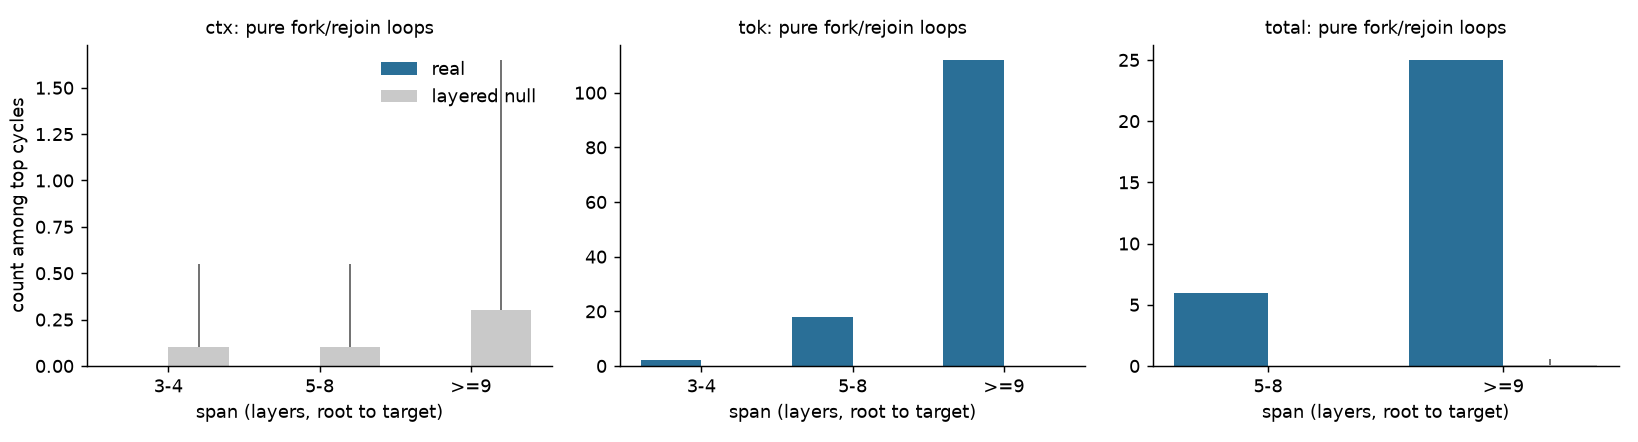
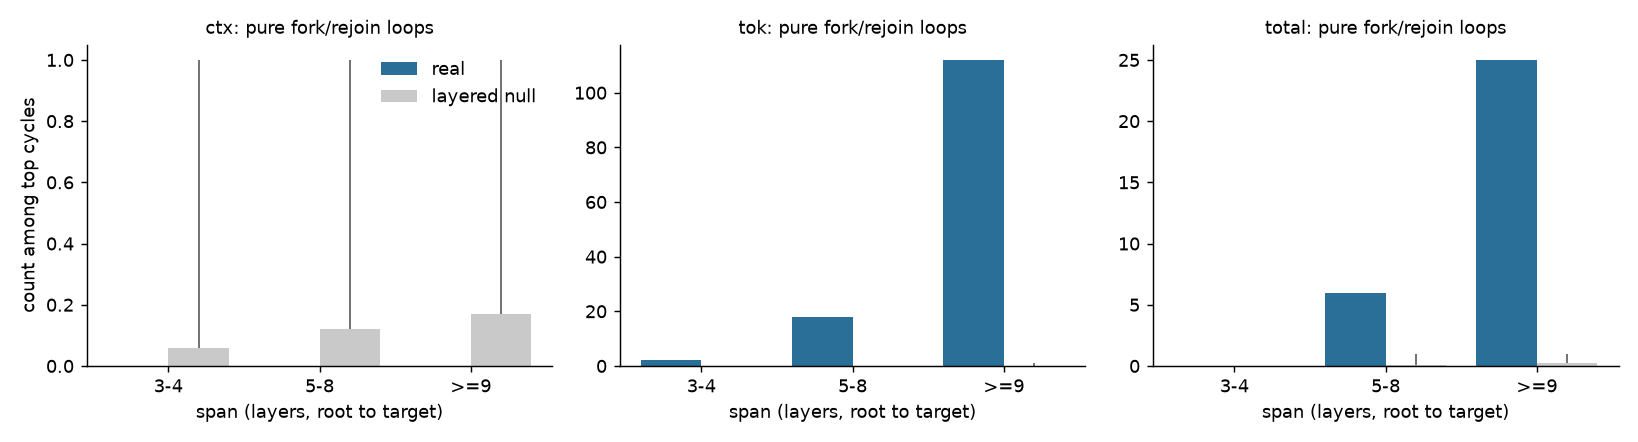
xmine summary: clip error bars when the null 95% is below its mean (crashed xsummary100); report with 100 nulls

diff --git a/scripts/neuron_xmine.py b/scripts/neuron_xmine.py
@@ -368,7 +368,7 @@ def summarize(a) -> int:
         x = np.arange(len(t))
         ax.bar(x - 0.2, t.real, 0.4, color="#2a6f97", label="real")
         ax.bar(x + 0.2, t.null_mean, 0.4, color="#c9c9c9", label="layered null")
-        ax.errorbar(x + 0.2, t.null_mean, yerr=[np.zeros(len(t)), t.null_95 - t.null_mean], fmt="none", ecolor="#666", lw=1)
+        ax.errorbar(x + 0.2, t.null_mean, yerr=[np.zeros(len(t)), np.clip(t.null_95 - t.null_mean, 0, None)], fmt="none", ecolor="#666", lw=1)
         ax.set_xticks(x, [k.replace("pure span ", "") for k in t.type])
         ax.set_xlabel("span (layers, root to target)"); ax.set_title(f"{g}: pure fork/rejoin loops", fontsize=10)
         ax.spines[["top", "right"]].set_visible(False)

diff --git a/reports/neurons/1.4b_s0_step143000/crosslayer.md b/reports/neurons/1.4b_s0_step143000/crosslayer.md
@@ -17,45 +17,46 @@ Pure diamond = fork at one root neuron, two unrelated arms, rejoin at one target
 
 | type | real | null mean | null 95% | p |
 |---|---|---|---|---|
-| diamond span 1 | 0 | 3.1 | 6.5 | 1.000 |
-| diamond span 2 | 0 | 1.1 | 3.0 | 1.000 |
-| diamond span 3-4 | 0 | 0.7 | 2.0 | 1.000 |
-| diamond span 5-8 | 0 | 1.8 | 4.5 | 1.000 |
-| diamond span >=9 | 0 | 12.2 | 15.0 | 1.000 |
-| flat | 988 | 799.2 | 820.8 | 0.091 |
-| pure span 3-4 | 0 | 0.1 | 0.5 | 1.000 |
-| pure span 5-8 | 0 | 0.1 | 0.5 | 1.000 |
-| pure span >=9 | 0 | 0.3 | 1.6 | 1.000 |
-| zigzag | 12 | 181.4 | 197.9 | 1.000 |
+| diamond span 1 | 0 | 2.4 | 5.0 | 1.000 |
+| diamond span 2 | 0 | 0.8 | 3.0 | 1.000 |
+| diamond span 3-4 | 0 | 1.2 | 3.0 | 1.000 |
+| diamond span 5-8 | 0 | 2.2 | 5.0 | 1.000 |
+| diamond span >=9 | 0 | 10.9 | 16.0 | 1.000 |
+| flat | 988 | 795.4 | 813.0 | 0.010 |
+| pure span 3-4 | 0 | 0.1 | 1.0 | 1.000 |
+| pure span 5-8 | 0 | 0.1 | 1.0 | 1.000 |
+| pure span >=9 | 0 | 0.2 | 1.0 | 1.000 |
+| zigzag | 12 | 186.7 | 206.1 | 1.000 |
 
 ### tok
 
 | type | real | null mean | null 95% | p |
 |---|---|---|---|---|
-| diamond span 1 | 10 | 48.1 | 58.6 | 1.000 |
-| diamond span 2 | 9 | 15.2 | 23.1 | 0.909 |
-| diamond span 3-4 | 21 | 19.6 | 27.7 | 0.273 |
-| diamond span 5-8 | 58 | 16.7 | 24.0 | 0.091 |
-| diamond span >=9 | 132 | 40.6 | 49.5 | 0.091 |
-| flat | 0 | 29.4 | 38.0 | 1.000 |
-| pure span 3-4 | 2 | 0.0 | 0.0 | 0.091 |
-| pure span 5-8 | 18 | 0.0 | 0.0 | 0.091 |
-| pure span >=9 | 112 | 0.0 | 0.0 | 0.091 |
-| zigzag | 638 | 830.4 | 846.5 | 1.000 |
+| diamond span 1 | 10 | 50.6 | 60.1 | 1.000 |
+| diamond span 2 | 9 | 16.2 | 22.0 | 0.980 |
+| diamond span 3-4 | 21 | 18.9 | 25.1 | 0.356 |
+| diamond span 5-8 | 58 | 16.9 | 24.0 | 0.010 |
+| diamond span >=9 | 132 | 40.5 | 51.0 | 0.010 |
+| flat | 0 | 29.8 | 38.0 | 1.000 |
+| pure span 3-4 | 2 | 0.0 | 0.0 | 0.010 |
+| pure span 5-8 | 18 | 0.0 | 0.0 | 0.010 |
+| pure span >=9 | 112 | 0.1 | 1.0 | 0.010 |
+| zigzag | 638 | 827.1 | 846.1 | 1.000 |
 
 ### total
 
 | type | real | null mean | null 95% | p |
 |---|---|---|---|---|
-| diamond span 1 | 5 | 33.1 | 37.0 | 1.000 |
-| diamond span 2 | 1 | 8.2 | 11.6 | 1.000 |
-| diamond span 3-4 | 8 | 13.5 | 19.5 | 1.000 |
-| diamond span 5-8 | 14 | 19.7 | 23.5 | 1.000 |
-| diamond span >=9 | 126 | 78.1 | 89.1 | 0.091 |
-| flat | 82 | 25.4 | 40.2 | 0.091 |
-| pure span 5-8 | 6 | 0.0 | 0.0 | 0.091 |
-| pure span >=9 | 25 | 0.1 | 0.5 | 0.091 |
-| zigzag | 733 | 821.9 | 837.5 | 1.000 |
+| diamond span 1 | 5 | 34.2 | 44.0 | 1.000 |
+| diamond span 2 | 1 | 9.1 | 14.0 | 1.000 |
+| diamond span 3-4 | 8 | 14.7 | 24.0 | 0.980 |
+| diamond span 5-8 | 14 | 19.8 | 27.0 | 0.931 |
+| diamond span >=9 | 126 | 72.0 | 86.0 | 0.010 |
+| flat | 82 | 24.3 | 32.0 | 0.010 |
+| pure span 3-4 | 0 | 0.0 | 0.0 | 1.000 |
+| pure span 5-8 | 6 | 0.1 | 1.0 | 0.010 |
+| pure span >=9 | 25 | 0.2 | 1.0 | 0.010 |
+| zigzag | 733 | 825.6 | 857.0 | 1.000 |
 
 ## Chordless pure diamonds among the top cycles: residual-path check (medians)
 
